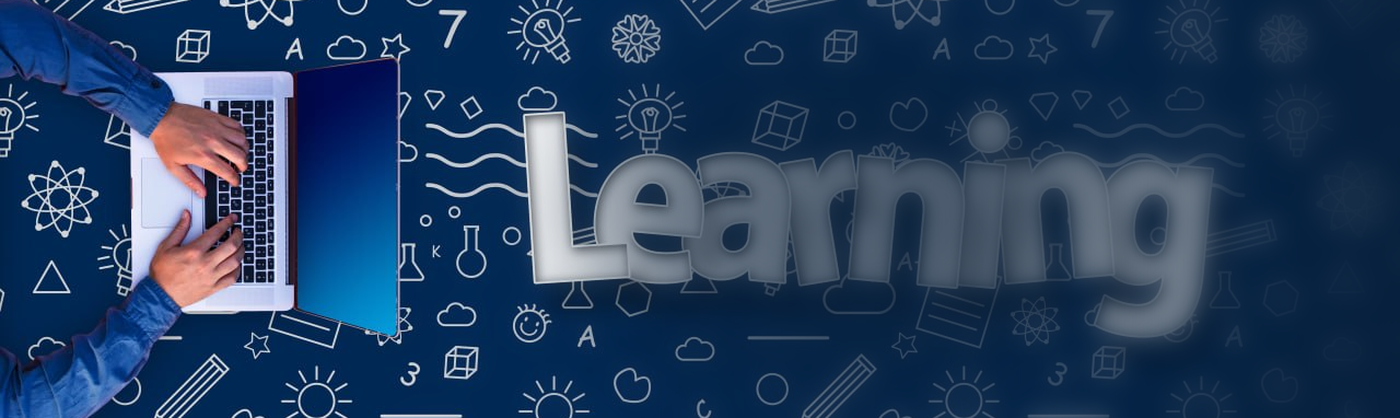
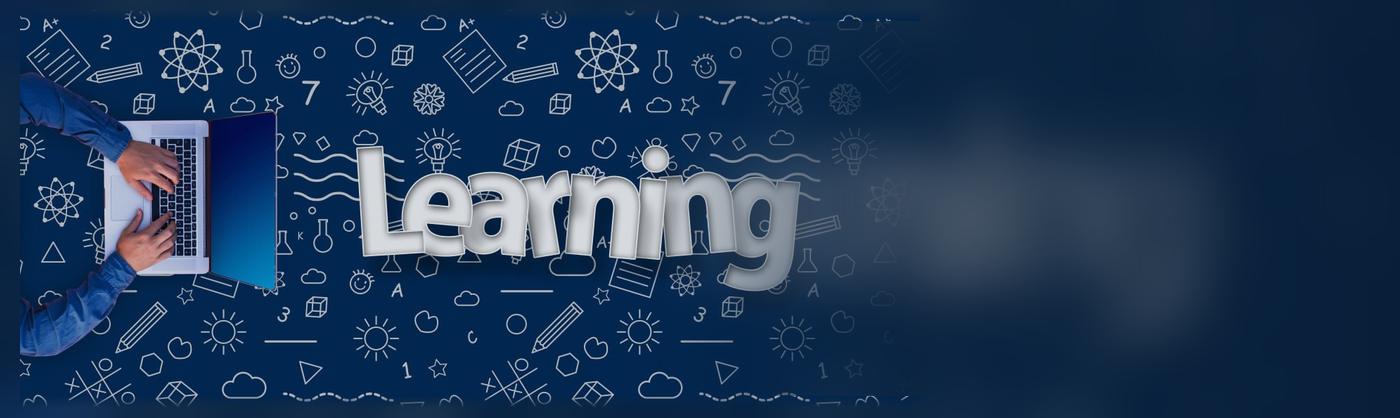
Reduce hero slider zoom

diff --git a/scripts/make_hero_no_zoom.py b/scripts/make_hero_no_zoom.py
@@ -1,0 +1,80 @@
+from pathlib import Path
+from PIL import Image, ImageDraw, ImageFilter
+
+OUT = Path('/home/iful/.hermes/cache/scratch/moodle-slides')
+OUT.mkdir(parents=True, exist_ok=True)
+W, H = 1400, 418
+NAVY = (8, 30, 55)
+
+S1 = Path('/home/iful/.hermes/cache/documents/native-inputs/81500c9e070a89e13faa97b134e219b3cdb1c42161afb2b46bb1b96db829a2cc/img_6a55fe1eb8a5.jpg')
+S2 = Path('/home/iful/.hermes/cache/documents/native-inputs/222c386596fb04c1afa8d65485f02d25eb6624246d553b166da3437cdb91f57a/img_cc89c07a87a3.jpg')
+
+
+def cover(path):
+    im = Image.open(path).convert('RGB')
+    ratio = W / H
+    w, h = im.size
+    ch = int(w / ratio)
+    if ch <= h:
+        y = (h - ch) // 2
+        im = im.crop((0, y, w, y + ch))
+    else:
+        cw = int(h * ratio)
+        x = (w - cw) // 2
+        im = im.crop((x, 0, x + cw, h))
+    return im.resize((W, H), Image.LANCZOS)
+
+
+def background(path):
+    bg = cover(path).filter(ImageFilter.GaussianBlur(26)).convert('RGBA')
+    veil = Image.new('RGBA', (W, H), NAVY + (165,))
+    return Image.alpha_composite(bg, veil)
+
+
+def foreground(path, crop_ratio=None, max_w=900):
+    im = Image.open(path).convert('RGB')
+    if crop_ratio:
+        ch = int(im.width / crop_ratio)
+        y = (im.height - ch) // 2
+        im = im.crop((0, y, im.width, y + ch))
+    box_h = H - 18
+    scale = min(max_w / im.width, box_h / im.height)
+    nw, nh = int(im.width * scale), int(im.height * scale)
+    im = im.resize((nw, nh), Image.LANCZOS).convert('RGBA')
+
+    # integrasikan dengan latar: veil tipis + feather di sisi kanan
+    veil = Image.new('RGBA', (nw, nh), NAVY + (42,))
+    im = Image.alpha_composite(im, veil)
+    mask = Image.new('L', (nw, nh), 255)
+    md = ImageDraw.Draw(mask)
+    fade_from = int(nw * 0.70)
+    for x in range(fade_from, nw):
+        t = (x - fade_from) / max(1, nw - fade_from)
+        md.line([(x, 0), (x, nh)], fill=int(255 * (1 - t) ** 1.25))
+    for y in range(0, 12):
+        a = int(255 * y / 12)
+        md.line([(0, y), (nw, y)], fill=min(mask.getpixel((0, y)), a))
+        md.line([(0, nh - 1 - y), (nw, nh - 1 - y)], fill=min(mask.getpixel((0, nh - 1 - y)), a))
+    return im, mask, nw, nh
+
+
+def right_gradient(canvas, start=0.56, max_alpha=205):
+    overlay = Image.new('RGBA', (W, H), (0, 0, 0, 0))
+    od = ImageDraw.Draw(overlay)
+    for x in range(W):
+        t = max(0.0, (x / W - start) / (1 - start))
+        a = int(max_alpha * min(1.0, t ** 1.2))
+        od.line([(x, 0), (x, H)], fill=NAVY + (a,))
+    return Image.alpha_composite(canvas, overlay).convert('RGB')
+
+
+def build(src, out, crop_ratio=None):
+    canvas = background(src)
+    fg, mask, nw, nh = foreground(src, crop_ratio=crop_ratio)
+    canvas.paste(fg, (20, (H - nh) // 2), mask)
+    right_gradient(canvas).save(out, quality=92)
+    print(out.name, 'fg', nw, 'x', nh)
+
+
+build(S1, OUT / 'slide1.png')
+build(S2, OUT / 'slide2.png', crop_ratio=2.0)

diff --git a/README.md b/README.md
@@ -194,4 +194,4 @@ Error `not enough random questions` terjadi bila jumlah slot acak melebihi jumla
 
 ## Tampilan halaman depan
 
-Halaman depan memakai theme **Academi 5.3** (sama seperti openCourse ITTS). Pasang dengan `scripts/install_academi.sh` — **backup dulu** lewat `scripts/backup.sh`. Slider ada di `brand/slides/` (2 slide dari gambar komunitas), diatur lewat `scripts/configure_academi_two_slides.php`; overlay dilembutkan oleh `scripts/set_academi_slider_css.php`. Konten dummy theme dibersihkan oleh `scripts/clean_academi_content.php`. Warna dasar biru (`#1269B2` / `#0E82BE`) diatur oleh `scripts/set_academi_blue.php`. Header memakai gaya Moodle (`scripts/set_academi_header.php`) agar logo + Home sebaris dengan login.
+Halaman depan memakai theme **Academi 5.3** (sama seperti openCourse ITTS). Pasang dengan `scripts/install_academi.sh` — **backup dulu** lewat `scripts/backup.sh`. Slider ada di `brand/slides/` (2 slide dari gambar komunitas, versi tanpa zoom via `scripts/make_hero_no_zoom.py`), diatur lewat `scripts/configure_academi_two_slides.php`; overlay dilembutkan oleh `scripts/set_academi_slider_css.php`. Konten dummy theme dibersihkan oleh `scripts/clean_academi_content.php`. Warna dasar biru (`#1269B2` / `#0E82BE`) diatur oleh `scripts/set_academi_blue.php`. Header memakai gaya Moodle (`scripts/set_academi_header.php`) agar logo + Home sebaris dengan login.

diff --git a/CHANGELOG.md b/CHANGELOG.md
@@ -18,7 +18,7 @@
 - Skrip `scripts/create_ws_token.sh` untuk otomasi REST (token tidak di-commit).
 
 ### Tampilan depan
-- Theme Academi 5.3 aktif, 3 slide hero komunitas, forcelogin dimatikan agar halaman depan publik. Palet diubah ke biru (hijau dihilangkan). Header style diubah ke Moodle-based: logo + Home sebaris dengan login. Hero slider diganti 2 gambar komunitas dengan overlay soft.
+- Theme Academi 5.3 aktif, 3 slide hero komunitas, forcelogin dimatikan agar halaman depan publik. Palet diubah ke biru (hijau dihilangkan). Header style diubah ke Moodle-based: logo + Home sebaris dengan login. Hero slider diganti 2 gambar komunitas dengan overlay soft; zoom dikurangi dengan containment+blur background.
 
 ### Branding
 - Logo, compact logo, dan favicon dibuat dan dipasang via core_admin settings. Revisi identitas: komunitas Anak Sepaku, materi umum/swadaya komunitas.
